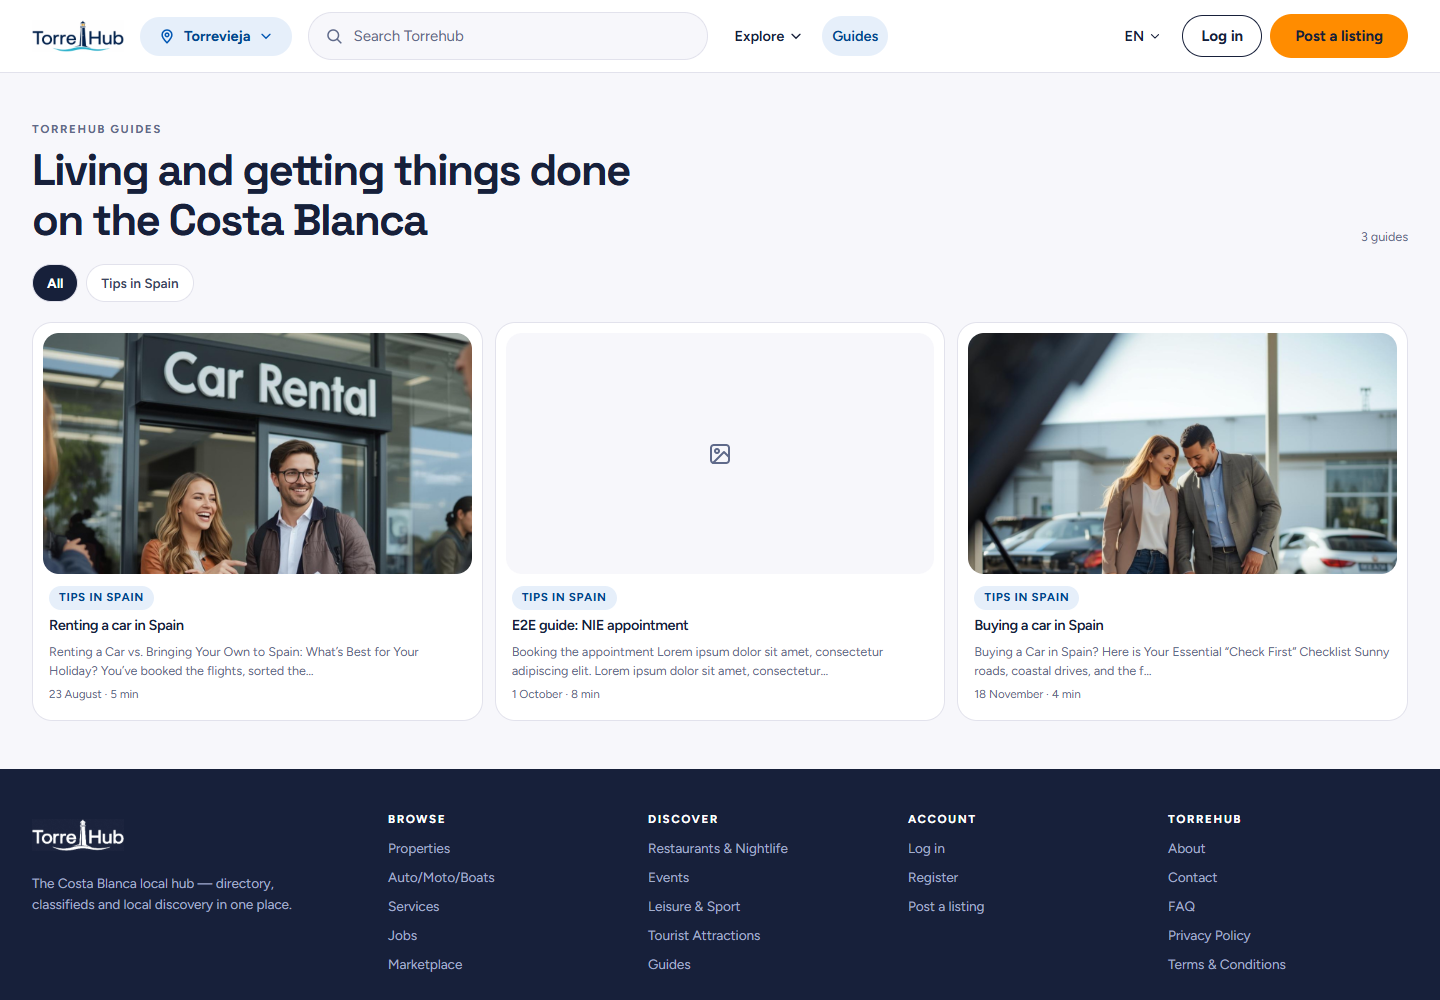
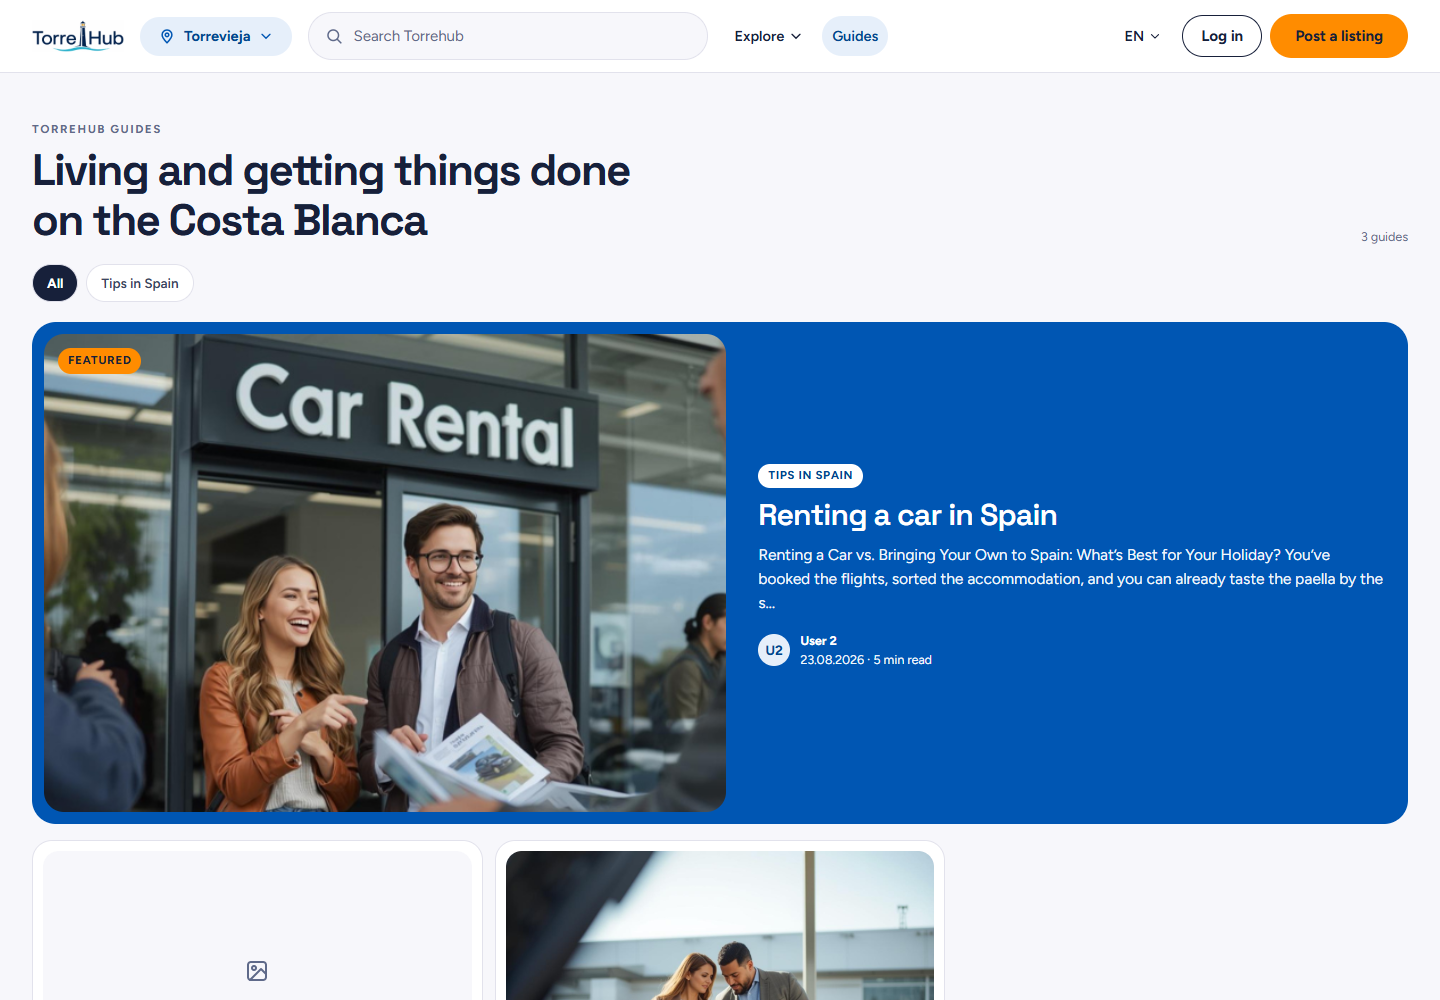
Feedback group 6 fix: the featured guide back above the 3 × 3 grid on page 1
The index query leaves it out on every page, so paging follows on without a repeat.

diff --git a/template-parts/guides/index.php b/template-parts/guides/index.php
@@ -1,8 +1,9 @@
 <?php
 /**
  * B-01 — Guides index (posts page, categories, tags): heading (+ the posts page's excerpt as intro), category chips,
- * 9 guides a page as cards (3 × 3), "Load more guides" — a real /page/N/ link; with JS the next page's cards are
- * added in place (content.js). Client request 2026-11: the featured guide and the text list gave way to the grid.
+ * the featured guide (index, page 1), 9 guides a page as cards (3 × 3), "Load more guides" — a real /page/N/ link;
+ * with JS the next page's cards are added in place (content.js). Client request 2026-11: the text list gave way
+ * to the grid; the featured guide is left out of the index query (Guides::per_page()).
  *
  * @package Torrehub
  */
@@ -14,6 +15,7 @@ use Torrehub\Modules\Guides\Module as Guides;
 global $wp_query;
 $page_no     = max( 1, (int) get_query_var( 'paged' ) );
 $topic       = is_category() || is_tag() ? get_queried_object() : null;
+$featured    = ( ! $topic && 1 === $page_no ) ? Guides::featured() : null;
 $guides_list = array_values( (array) $wp_query->posts );
 $total       = (int) wp_count_posts( 'post' )->publish;
 $intro       = $topic ? '' : Guides::intro();
@@ -53,7 +55,7 @@ $next        = $page_no < (int) $wp_query->max_num_pages ? get_pagenum_link( $pa
 		</nav>
 	<?php endif; ?>
 
-	<?php if ( ! $guides_list ) : ?>
+	<?php if ( ! $featured && ! $guides_list ) : ?>
 		<?php
 		th_component(
 			'empty-state',
@@ -65,6 +67,20 @@ $next        = $page_no < (int) $wp_query->max_num_pages ? get_pagenum_link( $pa
 		);
 		?>
 	<?php else : ?>
+		<?php if ( $featured ) : ?>
+			<?php
+			get_template_part(
+				'template-parts/guides/card',
+				null,
+				array(
+					'post'    => $featured,
+					'variant' => 'featured',
+					'eager'   => true,
+				)
+			);
+			?>
+		<?php endif; ?>
+
 		<ul class="th-guides__cards" role="list" data-th-guides-list>
 			<?php foreach ( $guides_list as $i => $guide ) : ?>
 				<li>
@@ -75,7 +91,7 @@ $next        = $page_no < (int) $wp_query->max_num_pages ? get_pagenum_link( $pa
 						array(
 							'post'    => $guide,
 							'variant' => 'card',
-							'eager'   => 0 === $i && 1 === $page_no,
+							'eager'   => ! $featured && 0 === $i && 1 === $page_no,
 						)
 					);
 					?>

diff --git a/inc/src/Modules/Guides/Module.php b/inc/src/Modules/Guides/Module.php
@@ -104,13 +104,20 @@ final class Module extends BaseModule {
 	}
 
 	/**
-	 * 9 guides per page (3 × 3) on the index and category pages.
+	 * 9 guides per page (3 × 3) on the index and category pages. The index leaves the featured guide out of every
+	 * page (page 1 shows it above the grid), so the pages follow on without a repeat.
 	 *
 	 * @param \WP_Query $q Query.
 	 */
 	public function per_page( $q ): void {
-		if ( ! is_admin() && $q->is_main_query() && ( $q->is_home() || $q->is_category() || $q->is_tag() ) ) {
-			$q->set( 'posts_per_page', 9 );
+		if ( is_admin() || ! $q->is_main_query() || ! ( $q->is_home() || $q->is_category() || $q->is_tag() ) ) {
+			return;
+		}
+		$q->set( 'posts_per_page', 9 );
+		$featured = $q->is_home() ? self::featured() : null;
+		if ( $featured ) {
+			$q->set( 'post__not_in', array( $featured->ID ) );
+			$q->set( 'ignore_sticky_posts', true );
 		}
 	}
 
@@ -128,6 +135,22 @@ final class Module extends BaseModule {
 				'ignore_sticky_posts' => true,
 			)
 		);
+	}
+
+	/**
+	 * The featured guide: newest sticky post, else the newest post.
+	 */
+	public static function featured(): ?\WP_Post {
+		$sticky = array_filter( array_map( 'absint', (array) get_option( 'sticky_posts', array() ) ) );
+		$posts  = get_posts(
+			array(
+				'post_type'           => 'post',
+				'posts_per_page'      => 1,
+				'post__in'            => $sticky ? $sticky : null,
+				'ignore_sticky_posts' => true,
+			)
+		);
+		return $posts[0] ?? null;
 	}
 
 	/**

diff --git a/_dev/docs/BUILD-PLAN.md b/_dev/docs/BUILD-PLAN.md
@@ -505,7 +505,7 @@ A 404-oldalt a Lighthouse nem méri (nem 2xx válasz); a `content.mjs` ellenőrz
 ## 30. Ügyfél-visszajelzés — 6. csoport: főoldal, Guides, logó
 
 1. **Városok (főoldal):** a 12 fő város = a felső szintű lokációk (élesen pontosan 12: Alicante, Altea, Benidorm, Benissa Costa, Calp, Dénia, Elche (Elx), Guardamar del Segura, Orihuela Costa, Santa Pola, Torrevieja, Xàbia — ügyfél-lista, egyezik), ábécérendben (ékezet nélkül rendezve), `Directory::home_towns()`, szűrő: `th_home_towns`. Rács: 6 / 4 / 3 / 2 oszlop (≥1200 / ≥900 / ≥600 / alatta) — 12 minden szélességen tele sorokat ad (a mobil görgetősáv helyett rács). A design town-card komponense változatlan. A lokális snapshotban 34 felső szintű lokáció van (régi adat): a teszt az éles állapotot állítja be (a többit Torrevieja alá teszi, „Benissa” → „Benissa Costa”, „Elche(Elx)” → „Elche (Elx)”), majd visszaállítja.
-2. **Guides** (élesen a /guides/ már a téma blog-archívuma: a „Guides” Page — ID 7358 — a posts page, ütközés nincs; a Page-ben egy teljes autóvásárlási cikk van, nem bevezető): oldalanként **9 cikk kártyaként, 3 × 3** (mobilon a design soros kártyái), kártya → teljes cikk; a **„Load more guides” valódi `/guides/page/N/` link** (`rel="next"`), JS-sel helyben hozzáfűzi a következő oldal kártyáit, JS nélkül oldalt vált. A „featured” kártya és a szöveges lista kikerült az indexből (nem fér a 9 / 3 × 3-ba; a `card.php` featured/text változatai megmaradtak). **Fejléc (ügyfél-döntés):** a design fejléce (eyebrow + Customizer-cím) + bevezető = a posts page **kivonata** (*Pages › Guides › Excerpt* — a téma bekapcsolja az oldalakon a Kivonat mezőt), üresen nincs bevezető; a Page címe nem írja felül a design h1-ét. A Page tartalmához nem nyúltunk, draft nem készült (ügyfél-döntés).
+2. **Guides** (élesen a /guides/ már a téma blog-archívuma: a „Guides” Page — ID 7358 — a posts page, ütközés nincs; a Page-ben egy teljes autóvásárlási cikk van, nem bevezető): oldalanként **9 cikk kártyaként, 3 × 3** (mobilon a design soros kártyái), kártya → teljes cikk; a **„Load more guides” valódi `/guides/page/N/` link** (`rel="next"`), JS-sel helyben hozzáfűzi a következő oldal kártyáit, JS nélkül oldalt vált. A szöveges lista kikerült az indexből; a **featured kártya** (legújabb sticky, különben a legújabb cikk) az 1. oldal tetején, a rács fölött marad (jóváhagyáskori javítás, a design szerint) — az index lekérdezése minden oldalon kihagyja, így a lapozás ismétlés nélkül folytatódik (1. oldal: featured + 9, utána 9-esével). **Fejléc (ügyfél-döntés):** a design fejléce (eyebrow + Customizer-cím) + bevezető = a posts page **kivonata** (*Pages › Guides › Excerpt* — a téma bekapcsolja az oldalakon a Kivonat mezőt), üresen nincs bevezető; a Page címe nem írja felül a design h1-ét. A Page tartalmához nem nyúltunk, draft nem készült (ügyfél-döntés).
 3. **Főoldal „Latest guides”** (ügyfél-döntés: a „hosszú szövegek” a két meglévő poszt — draft nem kell): a legfrissebb 3 cikk a Guides kártyáival, fölötte 2–3 mondatos bevezető; Customizer: *Show “Latest guides”*, *Show the “Latest guides” intro*, szöveg. A főoldal alján, a sellers/why sor után. A guide-kártya CSS-e közös komponens lett (`components/guide-card.css` — content és home csomag).
 4. **Logó-csomag** a repón kívül: `C:\Users\Miklos\Local Sites\Torrehub\brand-kit` (README angolul, a kliensnek). **Vektoros eredeti nincs** (sem a repóban, sem az éles médiatárban — a ott lévő „Dynamic Lighthouse” PNG-k más logó-koncepciók); ügyfél-döntés: **vektorizálás a brand sheetből** — színrétegenként (navy, türkiz, narancs; az élsimított pixelek a szín–fehér egyenesre vetítve, hogy ne legyen idegen színű perem), 4×-es felskálázás után potrace-szal; az ikon a nagy logó világítótornyából (külön vágva, a betűk nélkül) + a logó saját hulláma vízszintesen szűkítve. Fájlok: logo SVG (színes, fehér), 1024 px átlátszó PNG (színes, fehér), 720 × 720 fehér és márkakék (`#0056b3`) háttéren (a Facebook kerek vágásán belül marad); ugyanez az ikonra; favicon.ico (16/32/48), 16/32/48 PNG, apple-touch 180, android 192/512, WordPress site icon 512. A generáló scriptek: `_dev/tools/brand-kit/` (nem kerülnek a zipbe).
-5. **Tesztek** (`feedback.mjs`, +14 → 122): a 12 város sorrendben, 6/4/3/2 oszlop teli sorokkal; Guides 9 kártya, 3 oszlop, kivonat-bevezető, valódi /page/2/ link, JS-es hozzáfűzés, kártya → cikk, JS nélkül 2. oldal; főoldali blokk 3 kártyával és bevezetővel, a bevezető és a blokk kikapcsolható. A `content.mjs` Guides-ellenőrzése a featured kártya hiányát várja. A `feedback.mjs` fetch-e ECONNRESET-re egyszer újrapróbál (a lassú wp-cli lépés után az nginx bezárhatja a keep-alive kapcsolatot — időzítésfüggő, a teljes futásban jött elő).
+5. **Tesztek** (`feedback.mjs`, +15 → 123): a 12 város sorrendben, 6/4/3/2 oszlop teli sorokkal; Guides 9 kártya, 3 oszlop, kivonat-bevezető, valódi /page/2/ link, JS-es hozzáfűzés, featured a rács fölött és nem ismétlődik, kártya → cikk, JS nélkül 2. oldal; főoldali blokk 3 kártyával és bevezetővel, a bevezető és a blokk kikapcsolható. A `content.mjs` Guides-ellenőrzése a featured kártya hiányát várja. A `feedback.mjs` fetch-e ECONNRESET-re egyszer újrapróbál (a lassú wp-cli lépés után az nginx bezárhatja a keep-alive kapcsolatot — időzítésfüggő, a teljes futásban jött elő).

diff --git a/README.md b/README.md
@@ -60,7 +60,7 @@ Ahol ügyfél-döntés még nincs, a kódban `// DECISION:` jelöli a beállíth
 | `Chat` | üzenetek (polling, e-mail értesítő) — saját táblák |
 | `SearchAlerts` | mentett keresések, napi/azonnali e-mail — saját tábla |
 | `Broadcast` | Users › Notify all users: üzenet minden usernek / szerepkörnek, előnézet, teszt, WP-Cron kötegek (méret, gyakoriság), napló, szünet/folytatás, dupla küldés nélkül; eltüntethető értesítés a fiók-oldalsávban — saját táblák |
-| `Guides` | `/guides/` cikkek (oldalanként 9 kártya 3 × 3-ban, „Load more” = valódi `/page/N/` link; bevezető: a Guides oldal kivonata), Article JSON-LD; főoldali „Latest guides” blokk |
+| `Guides` | `/guides/` cikkek (1. oldalon featured cikk, oldalanként 9 kártya 3 × 3-ban, „Load more” = valódi `/page/N/` link; bevezető: a Guides oldal kivonata), Article JSON-LD; főoldali „Latest guides” blokk |
 | `Content` | About / Contact / FAQ / jogi oldal-sablonok, kapcsolat-űrlap, FAQPage JSON-LD |
 | `Consent` | cookie-sáv: a nem szükséges scriptek és beágyazások a hozzájárulásig **nem futnak**; sáv csak akkor, ha van mit kérdezni |
 | `Migration` | Eszközök › Torrehub migration: a runbook adat-lépései (`Steps`, ugyanaz a kód, mint a `wp torrehub …` parancsoké), adat-ellenőrzés, karbantartási mód |
